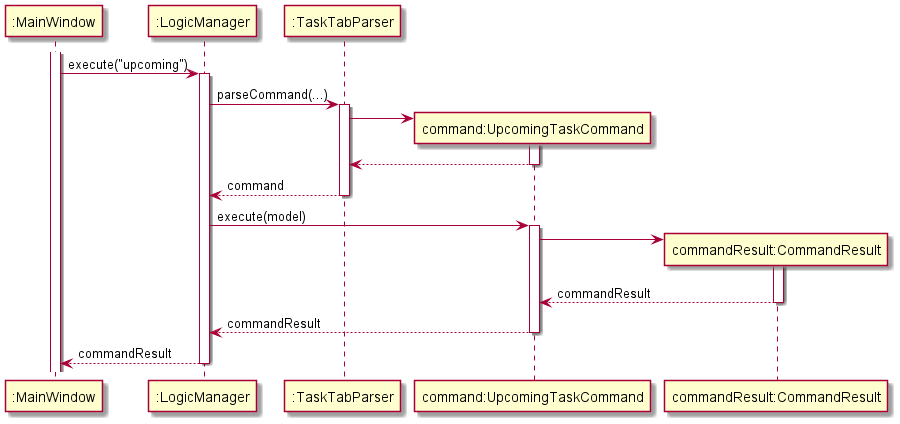
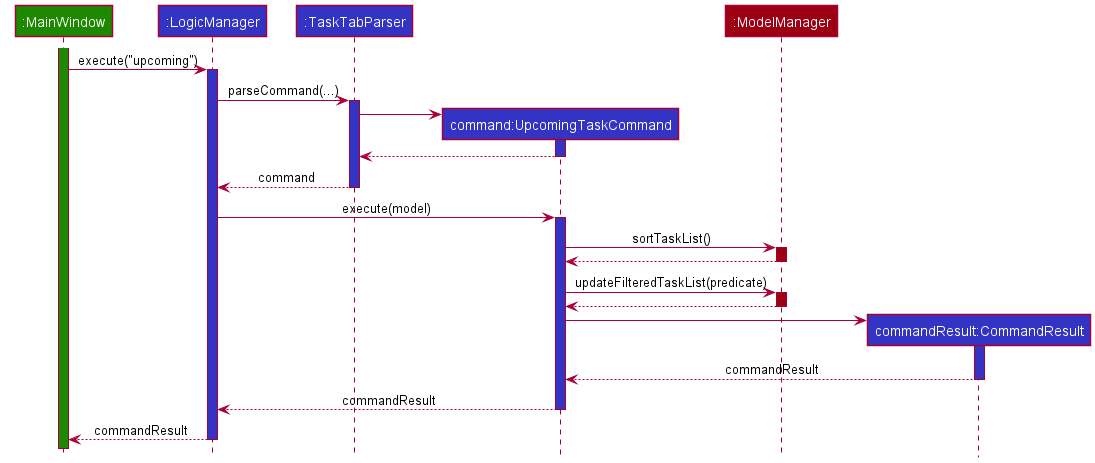
Update DG Requirements Change Sequence Diagram for Upcoming Task Command

Changed region(s): [[0.0, 0.0, 1.0, 1.0], [0.6533, 0.0, 0.7778, 0.092], [0.6533, 0.7665, 0.7467, 0.8278]]

diff --git a/src/main/java/dash/model/task/TaskList.java b/src/main/java/dash/model/task/TaskList.java
@@ -104,11 +104,9 @@ public class TaskList implements Iterable<Task> {
             if (t1.getCompletionStatus().get()) {
                 return -1;
             }
-
             if (t2.getCompletionStatus().get()) {
                 return 1;
             }
-
             if (!t1.getTaskDate().hasDate()) {
                 return -1;
             }

diff --git a/docs/DeveloperGuide.md b/docs/DeveloperGuide.md
@@ -343,9 +343,9 @@ and time via `LocalDateTime.now()`, and the current date via `LocalDate.now()`. 
 a date, then if it has a date but no time, and finally whether it has both date and time.
 
 When `UpcomingTaskCommand.execute(Model model)` is called by `LogicManager`, 
-`Model#sortTaskList()` is called which sorts the task list chronologically. `UpcomingTaskCommand` then passes 
-`TaskDateAfterCurrentDatePredicate` to `Model#updateFilteredTaskList(Predicate<Task> predicate)`, which filters out the
-upcoming tasks and updates the viewable `ObservableList<Task>`. 
+`Model#sortTaskList()` is called which sorts the task list chronologically. `UpcomingTaskCommand` then calls
+`Model#updateFilteredTaskList(Predicate<Task> predicate)`, which filters out the upcoming tasks and updates the viewable
+`ObservableList<Task>`. 
 
 The user is then able to view their upcoming tasks, in chronological order.
 
@@ -620,7 +620,7 @@ Use case ends.
 
 Use case resumes at step 2.
 
-#### Use case 08: View all contact
+#### Use case 08: View all contacts
 
 <u>MSS:</u>
 
@@ -635,6 +635,30 @@ Use case ends.
 
 Use case ends.
 
+#### Use case 10: Tagging a contact
+
+<u>MSS:</u>
+
+1. User switches to contacts tab
+2. Dash shows the list of contacts
+3. User inputs the contact index to be edited, specifying the tag(s) for the contact
+4. Dash adds the tag(s) to the contact
+
+Use case ends.
+
+<u>Extension:</u>
+
+2a. The task list is empty
+
+Use case ends.
+
+3. The given index is invalid
+    * Dash shows an error message
+
+Use case resumes at step 2.
+
+
+
 #### Use case 09: View a list of available commands
 
 <u>MSS:</u>
@@ -648,7 +672,8 @@ Use case ends.
 
 1. Should work on any _mainstream OS_ as long as it has Java `11` or above installed.
 2. Should be able to hold up to 1000 persons without a noticeable sluggishness in performance for typical usage.
-3. A user with above average typing speed for regular English text (i.e. not code, not system admin commands) should be able to accomplish most of the tasks faster using commands than using the mouse.
+3. A user with above average typing speed for regular English text (i.e. not code, not system admin commands) 
+   should be able to accomplish most of the tasks faster using commands than using the mouse.
 4. Should be lightweight.
 5. Should run smoothly even on low-end systems.
 
